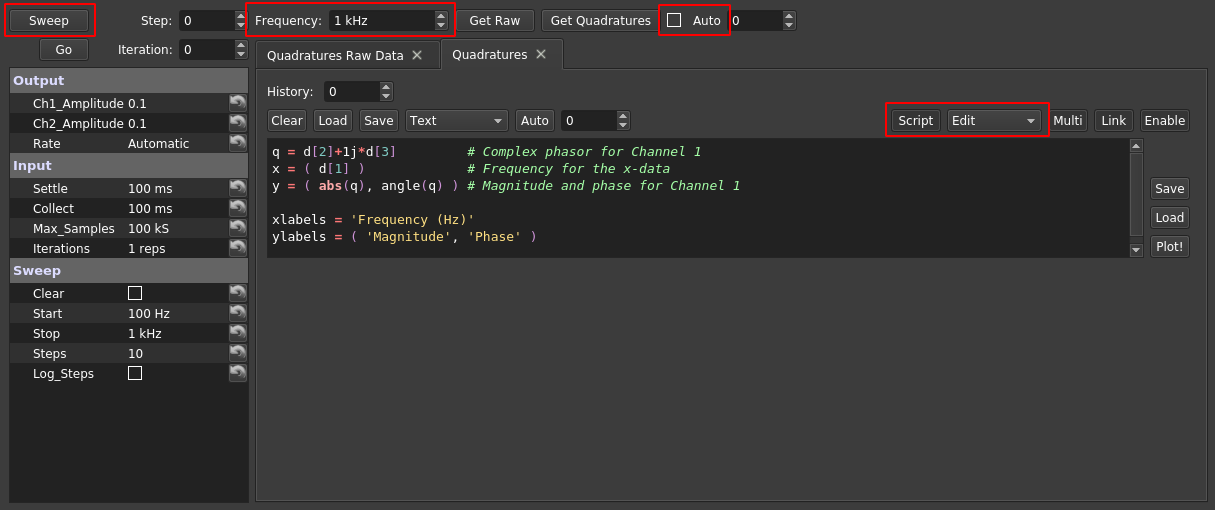
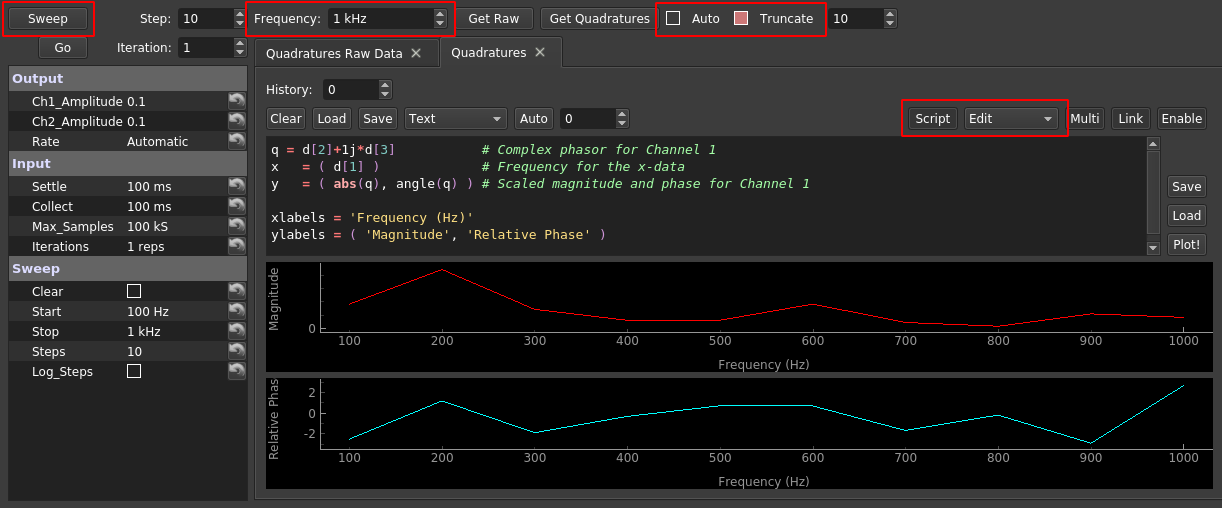
quadratures truncates raw data

diff --git a/instruments/gui_tools.py b/instruments/gui_tools.py
@@ -618,9 +618,15 @@ class quadratures(_g.Window):
             tip='Get the quadratures from the data source.').set_width(120))
 
         self.checkbox_auto = self.grid_right_top.add(_g.CheckBox(
-            text              = 'Auto',
+            text              = 'Auto  ',
             autosettings_path = name+'.checkbox_auto',
             tip='Automatically get quadratures for all incoming data.'))
+
+        self.checkbox_truncate = self.grid_right_top.add(_g.CheckBox(
+            text              = 'Truncate  ',
+            checked           = True,
+            autosettings_path = name+'.checkbox_truncate',
+            tip='Automatically truncate the data to an integer number of oscillations.'))
 
         self.button_loop = self.grid_right_top.add(_g.Button(
             text           = 'Loop',
@@ -684,7 +690,9 @@ class quadratures(_g.Window):
         if d:
             self.plot_raw.clear()
             self.plot_raw.copy_all(d)
+            self.truncate_raw_data()
             self.plot_raw.plot()
+            
 
     def _button_loop_toggled(self, *a):
         """
@@ -710,13 +718,18 @@ class quadratures(_g.Window):
         DataboxPlot object having time-signal column pairs, e.g., t1, V1, t2, V2, ...
         """
         print('WARNING: quadratures.get_raw() is currently a dummy function that produces simulated data.')
+        self.button_get_raw.set_colors('white', 'red')
+        
+        N = _n.random.randint(700,1000)
+        
         d = _s.data.databox()
-        t = _n.linspace(0,1,400)
+        t = _n.linspace(0, (N-1)*1e-5, N)
         f = self.number_frequency()
         d['t1'] = t
-        d['V1'] = _n.random.normal(size=400)+_n.sin(2*_n.pi*f*t + 0.2)
+        d['V1'] = _n.random.normal(size=N)+4*_n.sin(2*_n.pi*f*t)
         d['t2'] = t
-        d['V2'] = _n.random.normal(size=400)+_n.cos(2*_n.pi*f*t + 0.2)
+        d['V2'] = _n.random.normal(size=N)+4*_n.cos(2*_n.pi*f*t)
+        
         return d
 
     def get_quadratures(self, f=None):
@@ -796,16 +809,59 @@ class quadratures(_g.Window):
 
         return fs[step-1]
 
+    def truncate_raw_data(self, override_checkbox=False):
+        """
+        Truncates the raw data to an integer number of periods for the shown
+        frequency. Assumes the data in the Raw tab is in time-signal column.
+        
+        By default, this function will only truncate if the Truncate checkbox
+        is enabled. Setting override_checkbox=True will truncate even if it's not.
+        """
+        if not override_checkbox and not self.checkbox_truncate(): return self
+        
+        # Shortcuts
+        d = self.plot_raw
+        f = self.number_frequency()
+
+        # Don't truncate if the frequency is zero.
+        if f==0: return self
+        
+        # Loop over the data.
+        for n in range(0, len(d), 2):
+            
+            # Get the time step and total time
+            dt = d[n][1] -d[n][0]
+            T  = d[n][-1]-d[n][0]
+            
+            # Get the number of periods that fits
+            N = int(_n.floor(f*T))
+            
+            # If it's zero, we're hosed
+            if N < 1: 
+                print('WARNING, quadratures.truncate_raw_data(): Not even one period at frequency',f,'fits within the supplied data; truncation aborted.')
+                return self
+        
+            # Get the truncated time and samples
+            T = N/f
+            samples = int(_n.round(T/dt))
+            
+            # Truncate.
+            d[n]   = d[n  ][0:samples]
+            d[n+1] = d[n+1][0:samples]
+         
+        return self
+            
+
 
 if __name__ == '__main__':
 
     _egg.clear_egg_settings()
     # self = data_processor()
 
-    self = waveform_designer(sync_samples=True, sync_rates=True,
-                             buffer_increment=4).add_channels('a', 'b')
+    # self = waveform_designer(sync_samples=True, sync_rates=True,
+    #                          buffer_increment=4).add_channels('a', 'b')
 
-    #self = quadratures()
+    self = quadratures()
     self.show()
 
     # # Set up the output channels
